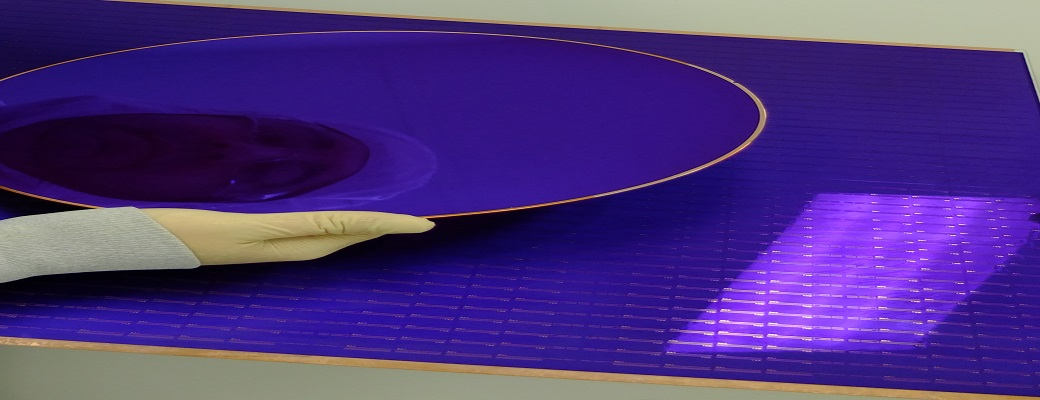
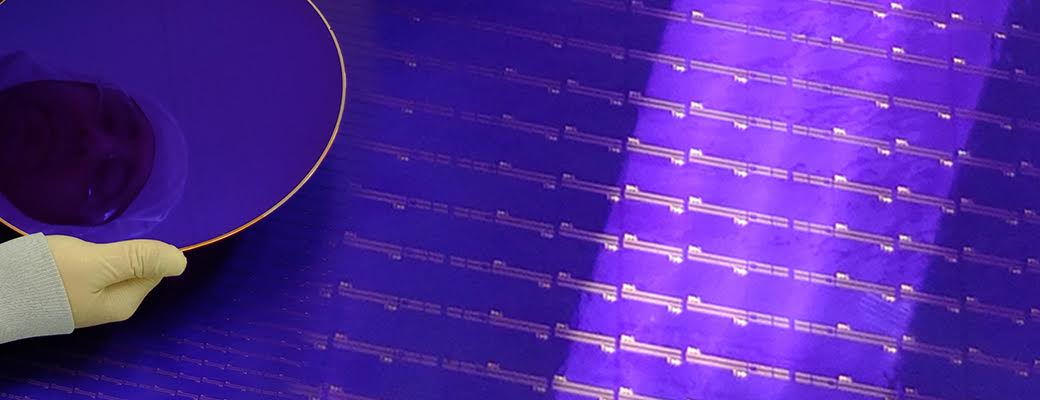
update cover image and bullet position on cover page

diff --git a/www/index.html b/www/index.html
@@ -33,35 +33,35 @@
                 <!-- SLIDE -->
                  <div class="ls-slide" data-ls="slidedelay:5000;transition2d:1;">
                     <img class="ls-l" style="top:0px;left:0px;width:100%;height:100%;white-space: nowrap;" data-ls="offsetxin:false;durationin:1000;fadeInUp:500;easeOutQuad;rotatein:false;scalexin:false;fadeInUp:25;offsetxout:0;durationout:500;rotateout:360;scalexout:2;scaleyout:2;" src="assets/images/1x1.png" data-src="assets/images/cover/cover-2018-02-l.jpg" alt="">
-                    <h5 class="ls-l" style="top:33px;left:50px; font-weight: normal;font-size:30px;color:#fff;white-space: nowrap;" data-ls="delayin:1000;offsetxin:false;easingin:easeOutBack;fadeInRight;scalexin:0.1;scaleyin:0.1;offsetxout:left;durationout:450;fadeout:false;scalexout:0.1;scaleyout:0.1;">
+                    <h5 class="ls-l" style="top:33px;left:350px; font-weight: normal;font-size:30px;color:#fff;white-space: nowrap;" data-ls="delayin:1000;offsetxin:false;easingin:easeOutBack;fadeInRight;scalexin:0.1;scaleyin:0.1;offsetxout:left;durationout:450;fadeout:false;scalexout:0.1;scaleyout:0.1;">
                         <a href="http://fbs.advantageinc.com/chipscale/jan-feb_2018/#10" ONCLICK="VSLT('read_issue_jan-feb_2018_pg10')" target="1802-10"> <span style="font-weight:bold;text-shadow:5px 5px 30px #000;">Challenges of ECD panel FO in HVM</span></a>
                         
                     </h5>
-                    <h5 class="ls-l" style="top:73px;left:50px; font-weight: normal;font-size:20px;color:#fff;white-space: nowrap;" data-ls="delayin:1000;offsetxin:false;easingin:easeOutBack;fadeInRight;scalexin:0.1;scaleyin:0.1;offsetxout:left;durationout:450;fadeout:false;scalexout:0.1;scaleyout:0.1;">
+                    <h5 class="ls-l" style="top:73px;left:350px; font-weight: normal;font-size:20px;color:#fff;white-space: nowrap;" data-ls="delayin:1000;offsetxin:false;easingin:easeOutBack;fadeInRight;scalexin:0.1;scaleyin:0.1;offsetxout:left;durationout:450;fadeout:false;scalexout:0.1;scaleyout:0.1;">
                         Page 9
                     </h5>
-                    <i class="ls-l-1 fa fa-circle" style="top:140px;left:50px;color:#ffffff;background:transparent;border-radius:0px;white-space: nowrap;" data-ls="delayin:1500;offsetxin:0;durationin:650;easingin:easeOutQuint;rotatein:90;scalexin:0.5;scaleyin:0.5;offsetxout:0;durationout:750;rotateout:90;scalexout:0.5;scaleyout:0.5;"></i>
-                    <h5 class="ls-l" style="top:130px;left:78px; font-weight: normal;font-size:24px;color:#fff;white-space: nowrap;" data-ls="delayin:1500;offsetxin:left;easingin:easeOutBack;fadein:false;scalexin:0.1;scaleyin:0.1;offsetxout:left;durationout:950;fadeout:false;scalexout:0.1;scaleyout:0.1;">
+                    <i class="ls-l-1 fa fa-circle" style="top:140px;left:350px;color:#ffffff;background:transparent;border-radius:0px;white-space: nowrap;" data-ls="delayin:1500;offsetxin:0;durationin:650;easingin:easeOutQuint;rotatein:90;scalexin:0.5;scaleyin:0.5;offsetxout:0;durationout:750;rotateout:90;scalexout:0.5;scaleyout:0.5;"></i>
+                    <h5 class="ls-l" style="top:130px;left:378px; font-weight: normal;font-size:24px;color:#fff;white-space: nowrap;" data-ls="delayin:1500;offsetxin:left;easingin:easeOutBack;fadein:false;scalexin:0.1;scaleyin:0.1;offsetxout:left;durationout:950;fadeout:false;scalexout:0.1;scaleyout:0.1;">
                         <a href="http://fbs.advantageinc.com/chipscale/jan-feb_2018/#34" ONCLICK="VSLT('read_issue_jan-feb_2018_pg34')" target="1802-34" > <span style="text-shadow:3px 3px 8px #000;">3D bump inspection</span></a>
                     </h5>
-                    <i class="ls-l-1 fa fa-circle" style="top:180px;left:50px;color:#ffffff;background:transparent;border-radius:0px;white-space: nowrap;" data-ls="delayin:1700;offsetxin:0;durationin:650;easingin:easeOutQuint;rotatein:90;scalexin:0.5;scaleyin:0.5;offsetxout:0;durationout:750;rotateout:90;scalexout:0.5;scaleyout:0.5;"></i>
-                    <h5 class="ls-l" style="top:170px;left:78px; font-weight: normal;font-size:24px;color:#fff;white-space: nowrap;" data-ls="delayin:1700;offsetxin:left;easingin:easeOutBack;fadein:false;scalexin:0.1;scaleyin:0.1;offsetxout:left;durationout:950;fadeout:false;scalexout:0.1;scaleyout:0.1;">
+                    <i class="ls-l-1 fa fa-circle" style="top:180px;left:350px;color:#ffffff;background:transparent;border-radius:0px;white-space: nowrap;" data-ls="delayin:1700;offsetxin:0;durationin:650;easingin:easeOutQuint;rotatein:90;scalexin:0.5;scaleyin:0.5;offsetxout:0;durationout:750;rotateout:90;scalexout:0.5;scaleyout:0.5;"></i>
+                    <h5 class="ls-l" style="top:170px;left:378px; font-weight: normal;font-size:24px;color:#fff;white-space: nowrap;" data-ls="delayin:1700;offsetxin:left;easingin:easeOutBack;fadein:false;scalexin:0.1;scaleyin:0.1;offsetxout:left;durationout:950;fadeout:false;scalexout:0.1;scaleyout:0.1;">
                         <a href="http://fbs.advantageinc.com/chipscale/jan-feb_2018/#24" ONCLICK="VSLT('read_issue_jan-feb_2018_pg24')" target="1802-24"> <span style="text-shadow:3px 3px 5px #000;">Laser debonding for WLP </span></a>
                     </h5>
-                    <i class="ls-l-1 fa fa-circle" style="top:220px;left:50px;color:#ffffff;background:transparent;border-radius:0px;white-space: nowrap;" data-ls="delayin:1900;offsetxin:0;durationin:650;easingin:easeOutQuint;rotatein:90;scalexin:0.5;scaleyin:0.5;offsetxout:0;durationout:750;rotateout:90;scalexout:0.5;scaleyout:0.5;"></i>
-                    <h5 class="ls-l" style="top:210px;left:78px; font-weight: normal;font-size:24px;color:#fff;white-space: nowrap;" data-ls="delayin:1900;offsetxin:left;easingin:easeOutBack;fadein:false;scalexin:0.1;scaleyin:0.1;offsetxout:left;durationout:950;fadeout:false;scalexout:0.1;scaleyout:0.1;">
+                    <i class="ls-l-1 fa fa-circle" style="top:220px;left:350px;color:#ffffff;background:transparent;border-radius:0px;white-space: nowrap;" data-ls="delayin:1900;offsetxin:0;durationin:650;easingin:easeOutQuint;rotatein:90;scalexin:0.5;scaleyin:0.5;offsetxout:0;durationout:750;rotateout:90;scalexout:0.5;scaleyout:0.5;"></i>
+                    <h5 class="ls-l" style="top:210px;left:378px; font-weight: normal;font-size:24px;color:#fff;white-space: nowrap;" data-ls="delayin:1900;offsetxin:left;easingin:easeOutBack;fadein:false;scalexin:0.1;scaleyin:0.1;offsetxout:left;durationout:950;fadeout:false;scalexout:0.1;scaleyout:0.1;">
                         <a href="http://fbs.advantageinc.com/chipscale/jan-feb_2018/#38" ONCLICK="VSLT('read_issue_jan-feb_2018_pg38')" target="1802-38"> <span style="text-shadow:3px 3px 5px #000;">Reducing wafer test time</span></a>
                     </h5>
-                    <i class="ls-l-1 fa fa-circle" style="top:260px;left:50px;color:#ffffff;background:transparent;border-radius:0px;white-space: nowrap;" data-ls="delayin:2100;offsetxin:0;durationin:650;easingin:easeOutQuint;rotatein:90;scalexin:0.5;scaleyin:0.5;offsetxout:0;durationout:750;rotateout:90;scalexout:0.5;scaleyout:0.5;"></i>
-                    <h5 class="ls-l" style="top:250px;left:78px; font-weight: normal;font-size:24px;color:#fff;white-space: nowrap;" data-ls="delayin:2100;offsetxin:left;easingin:easeOutBack;fadein:false;scalexin:0.1;scaleyin:0.1;offsetxout:left;durationout:950;fadeout:false;scalexout:0.1;scaleyout:0.1;">
+                    <i class="ls-l-1 fa fa-circle" style="top:260px;left:350px;color:#ffffff;background:transparent;border-radius:0px;white-space: nowrap;" data-ls="delayin:2100;offsetxin:0;durationin:650;easingin:easeOutQuint;rotatein:90;scalexin:0.5;scaleyin:0.5;offsetxout:0;durationout:750;rotateout:90;scalexout:0.5;scaleyout:0.5;"></i>
+                    <h5 class="ls-l" style="top:250px;left:378px; font-weight: normal;font-size:24px;color:#fff;white-space: nowrap;" data-ls="delayin:2100;offsetxin:left;easingin:easeOutBack;fadein:false;scalexin:0.1;scaleyin:0.1;offsetxout:left;durationout:950;fadeout:false;scalexout:0.1;scaleyout:0.1;">
                         <a href="http://fbs.advantageinc.com/chipscale/jan-feb_2018/#40" ONCLICK="VSLT('read_issue_jan-feb_2018_pg40')" target="1802-40"> <span style="text-shadow:3px 3px 5px #000;">Sensors for automotive apps</span></a>
                     </h5>
-                    <i class="ls-l-1 fa fa-circle" style="top:300px;left:50px;color:#ffffff;background:transparent;border-radius:0px;white-space: nowrap;" data-ls="delayin:2300;offsetxin:0;durationin:650;easingin:easeOutQuint;rotatein:90;scalexin:0.5;scaleyin:0.5;offsetxout:0;durationout:750;rotateout:90;scalexout:0.5;scaleyout:0.5;"></i>
-                    <h5 class="ls-l" style="top:290px;left:78px; font-weight: normal;font-size:24px;color:#fff;white-space: nowrap;" data-ls="delayin:2300;offsetxin:left;easingin:easeOutBack;fadein:false;scalexin:0.1;scaleyin:0.1;offsetxout:left;durationout:950;fadeout:false;scalexout:0.1;scaleyout:0.1;">
+                    <i class="ls-l-1 fa fa-circle" style="top:300px;left:350px;color:#ffffff;background:transparent;border-radius:0px;white-space: nowrap;" data-ls="delayin:2300;offsetxin:0;durationin:650;easingin:easeOutQuint;rotatein:90;scalexin:0.5;scaleyin:0.5;offsetxout:0;durationout:750;rotateout:90;scalexout:0.5;scaleyout:0.5;"></i>
+                    <h5 class="ls-l" style="top:290px;left:378px; font-weight: normal;font-size:24px;color:#fff;white-space: nowrap;" data-ls="delayin:2300;offsetxin:left;easingin:easeOutBack;fadein:false;scalexin:0.1;scaleyin:0.1;offsetxout:left;durationout:950;fadeout:false;scalexout:0.1;scaleyout:0.1;">
                         <a href="http://fbs.advantageinc.com/chipscale/jan-feb_2018/#18" ONCLICK="VSLT('read_issue_jan-feb_2018_pg18')" target="1802-18" > <span style="text-shadow:3px 3px 5px #000;">3D IC heterogeneous integration by FOWLP</span></a>
                     </h5>
-                    <i class="ls-l-1 fa fa-circle" style="top:340px;left:50px;color:#ffffff;background:transparent;border-radius:0px;white-space: nowrap;" data-ls="delayin:2300;offsetxin:0;durationin:650;easingin:easeOutQuint;rotatein:90;scalexin:0.5;scaleyin:0.5;offsetxout:0;durationout:750;rotateout:90;scalexout:0.5;scaleyout:0.5;"></i>
-                    <h5 class="ls-l" style="top:330px;left:78px; font-weight: normal;font-size:24px;color:#fff;white-space: nowrap;" data-ls="delayin:2500;offsetxin:left;easingin:easeOutBack;fadein:false;scalexin:0.1;scaleyin:0.1;offsetxout:left;durationout:950;fadeout:false;scalexout:0.1;scaleyout:0.1;">
+                    <i class="ls-l-1 fa fa-circle" style="top:340px;left:350px;color:#ffffff;background:transparent;border-radius:0px;white-space: nowrap;" data-ls="delayin:2300;offsetxin:0;durationin:650;easingin:easeOutQuint;rotatein:90;scalexin:0.5;scaleyin:0.5;offsetxout:0;durationout:750;rotateout:90;scalexout:0.5;scaleyout:0.5;"></i>
+                    <h5 class="ls-l" style="top:330px;left:378px; font-weight: normal;font-size:24px;color:#fff;white-space: nowrap;" data-ls="delayin:2500;offsetxin:left;easingin:easeOutBack;fadein:false;scalexin:0.1;scaleyin:0.1;offsetxout:left;durationout:950;fadeout:false;scalexout:0.1;scaleyout:0.1;">
                         <a href="http://fbs.advantageinc.com/chipscale/jan-feb_2018/#30" ONCLICK="VSLT('read_issue_jan-feb_2018_pg30')" target="1802-30" > <span style="text-shadow:3px 3px 5px #000;">Surface analysis as a “blueprint” for manufacturing</span></a>
                     </h5>
                     
